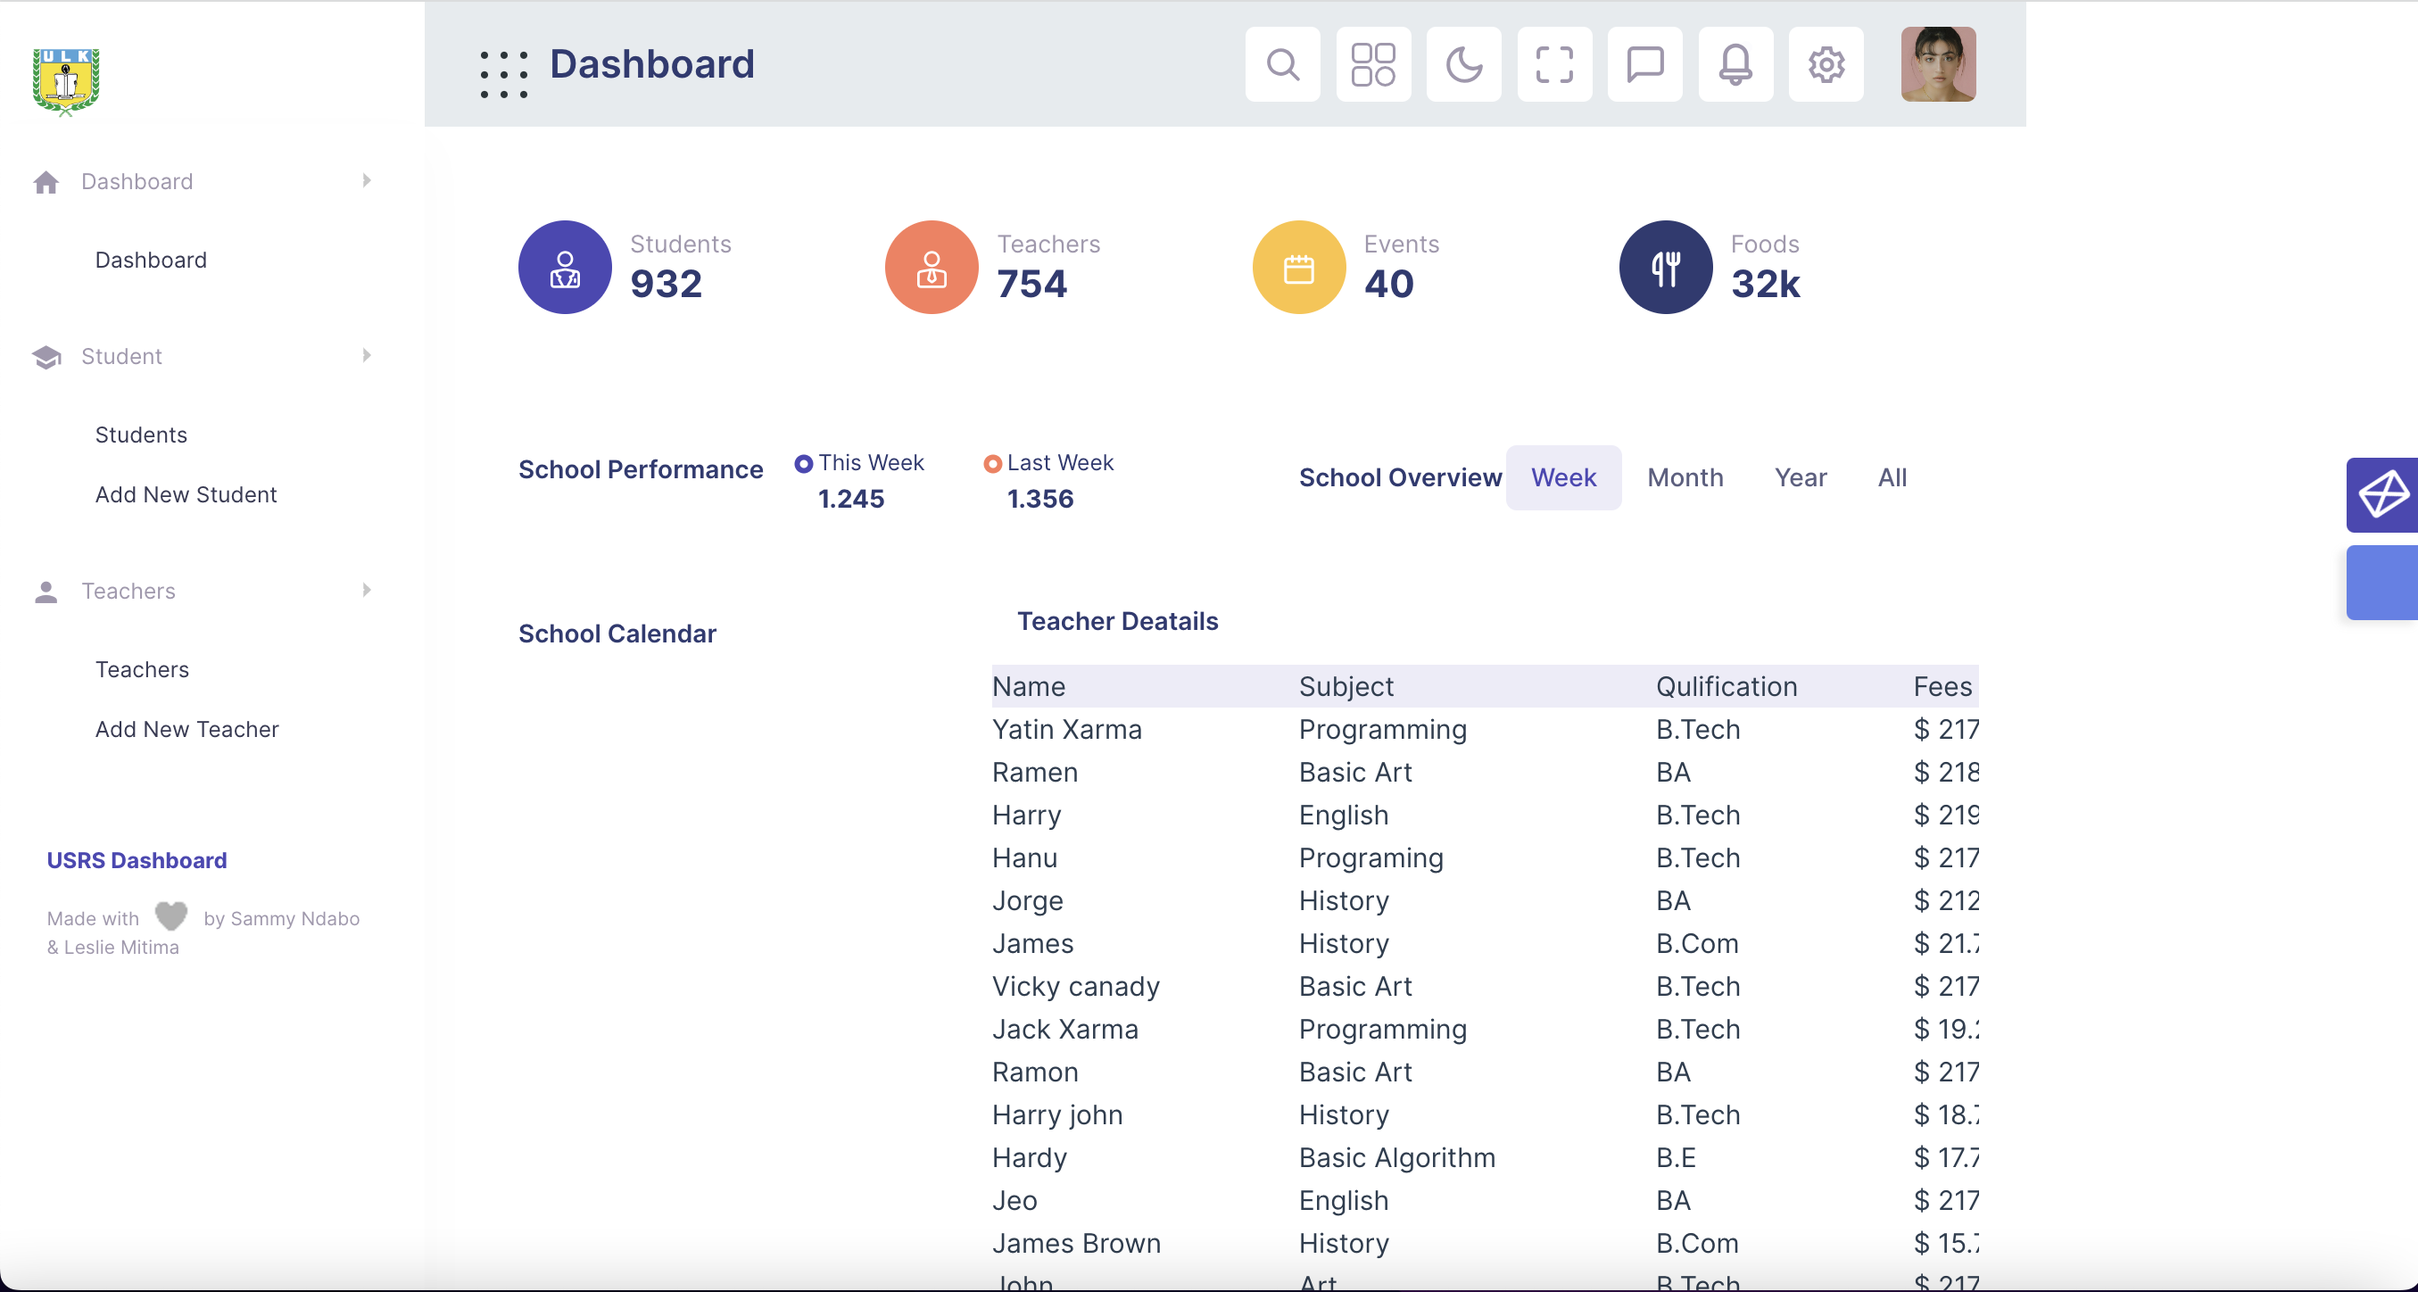
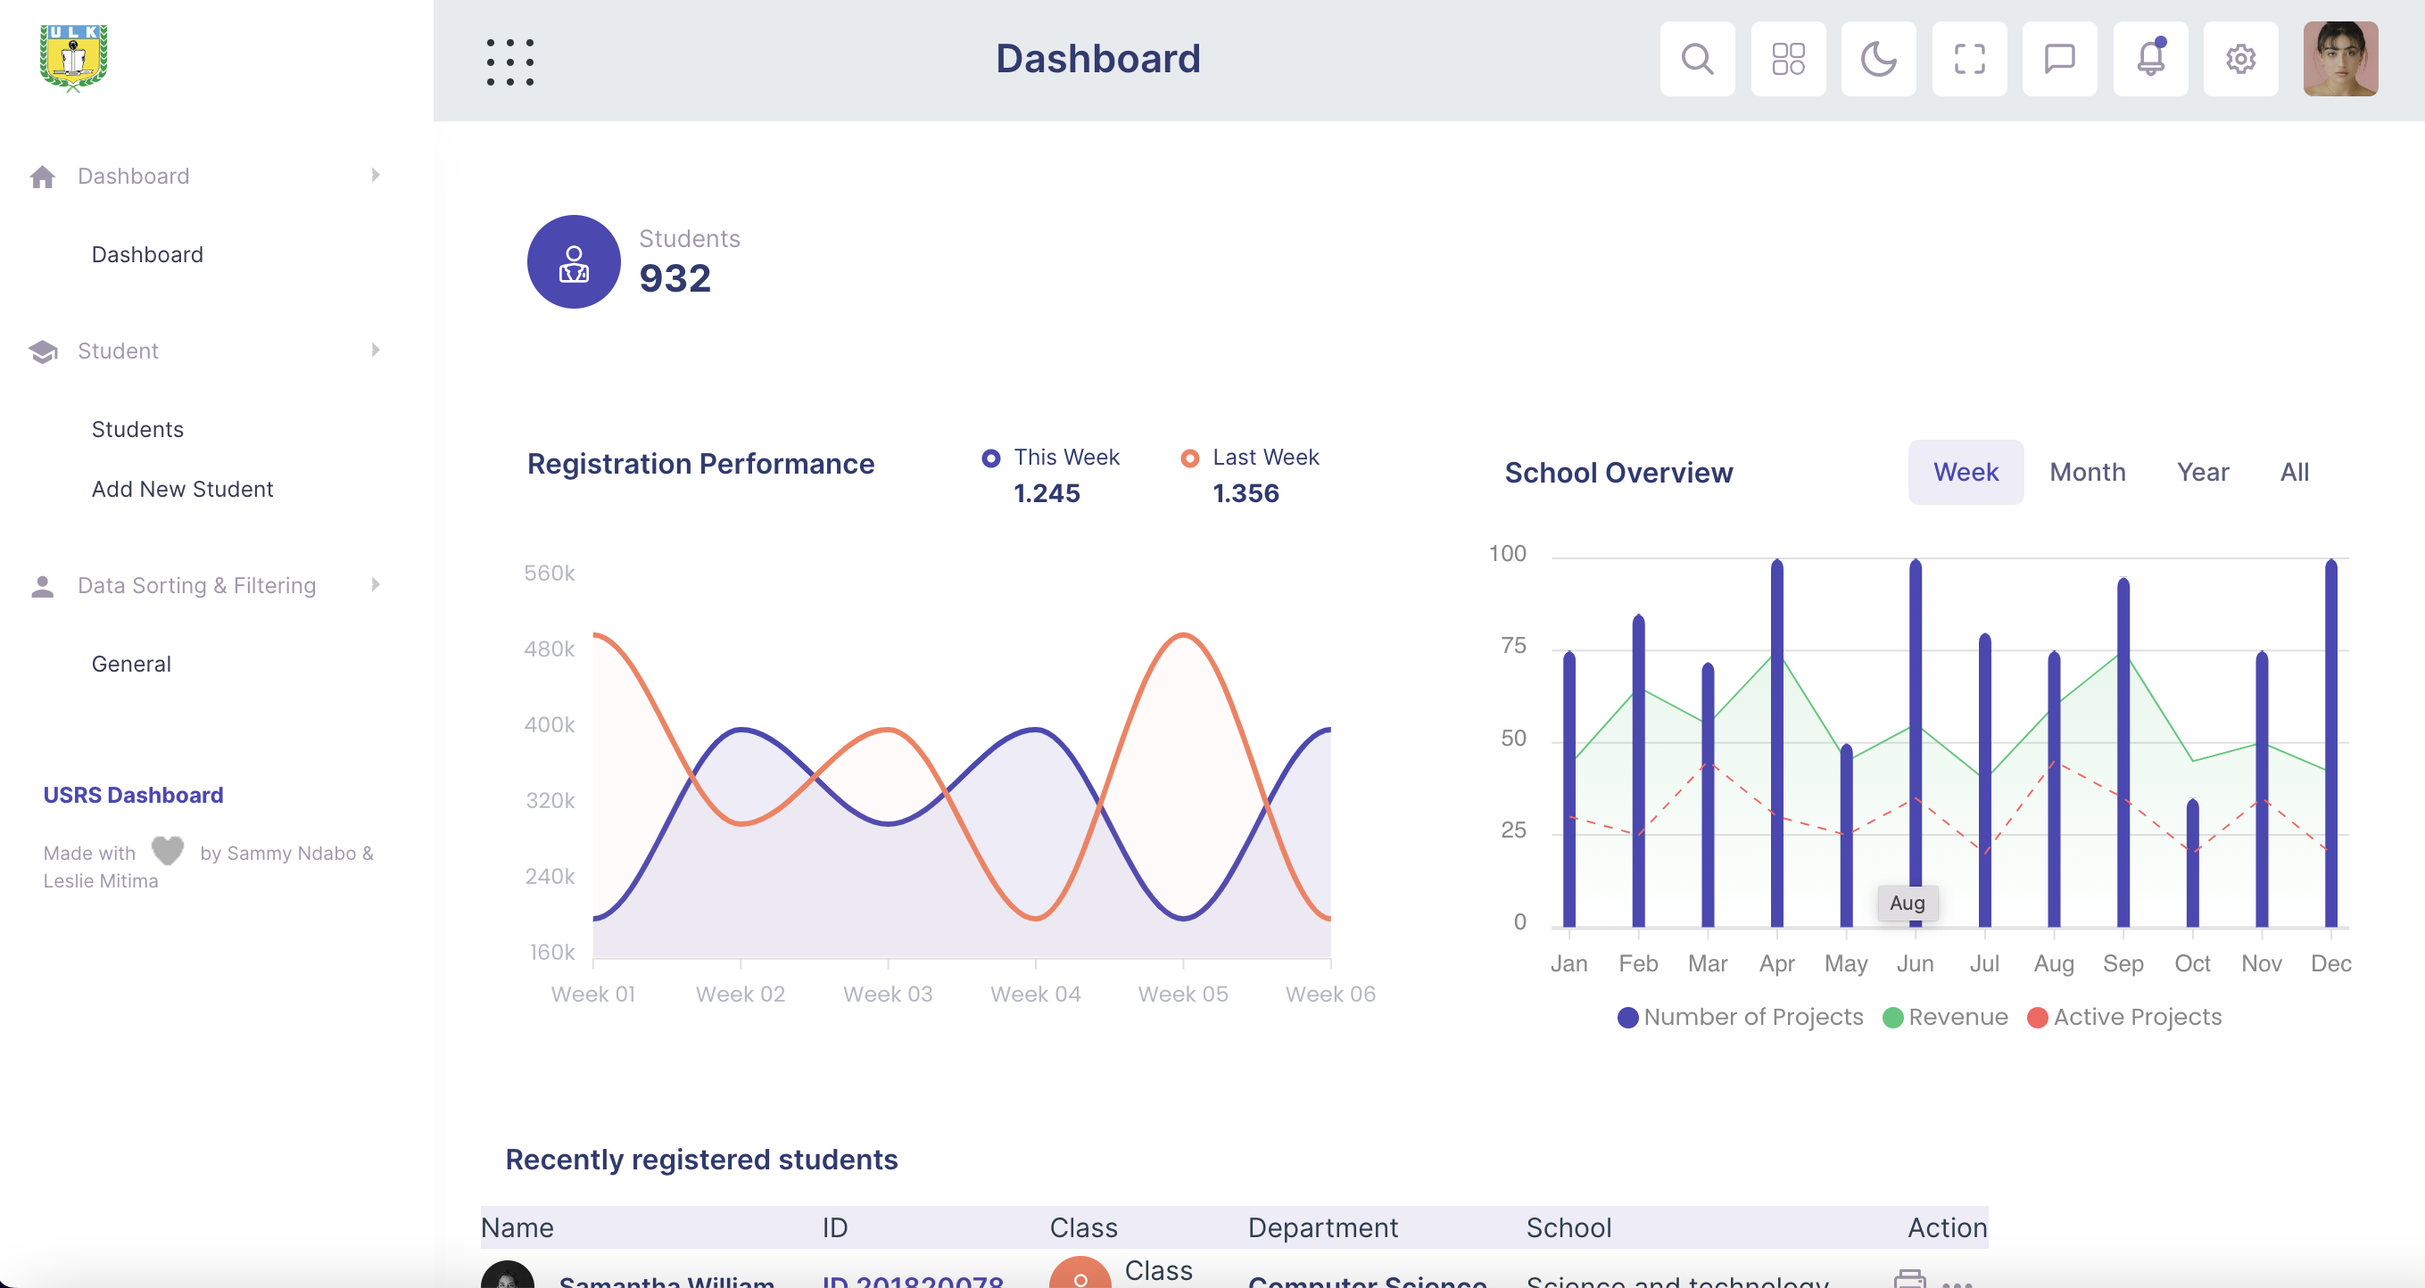
Dashboard ui updated

diff --git a/src/views/HomeView.vue b/src/views/HomeView.vue
@@ -146,45 +146,7 @@ export default {
     											</div>
     										</div>
     									</div>
-    									<div class="col-xl-3 col-6">
-    										<div class="content-box">
-    											<div class="teach-data icon-box icon-box-xl">
-    												<svg width="25" height="25" viewBox="0 0 30 38" fill="none" xmlns="http://www.w3.org/2000/svg">
-    													<path fill-rule="evenodd" clip-rule="evenodd" d="M0 34C0 36.0713 1.67875 37.75 3.75 37.75H26.25C28.3212 37.75 30 36.0713 30 34C30 31.0825 30 26.3125 30 23.5863C30 21.7738 28.7038 20.2213 26.9213 19.8975C24.2788 19.4163 19.7225 18.5875 17.145 18.12C15.7263 17.8612 14.2737 17.8612 12.855 18.12C10.2775 18.5875 5.72125 19.4163 3.07875 19.8975C1.29625 20.2213 0 21.7738 0 23.5863V34ZM17.885 20.795L19.7612 27.9288C20.0075 28.865 19.6775 29.8588 18.92 30.4638C18.28 30.9738 17.2713 31.7788 16.5713 32.3388C15.6525 33.0713 14.3475 33.0713 13.4287 32.3388C12.7287 31.7788 11.72 30.9738 11.08 30.4638C10.3225 29.8588 9.9925 28.865 10.2388 27.9288L12.115 20.795L3.52625 22.3562C2.9325 22.465 2.5 22.9825 2.5 23.5863V34C2.5 34.69 3.06 35.25 3.75 35.25C8.98 35.25 21.02 35.25 26.25 35.25C26.94 35.25 27.5 34.69 27.5 34C27.5 31.0825 27.5 26.3125 27.5 23.5863C27.5 22.9825 27.0675 22.465 26.4738 22.3562L17.885 20.795ZM15.2038 20.4288C15.0675 20.425 14.9325 20.425 14.7962 20.4288L12.6663 28.5312L14.9887 30.3837C14.995 30.39 15.005 30.39 15.0113 30.3837L17.3337 28.5312L15.2038 20.4288ZM15 0.25C10.5163 0.25 6.875 3.89125 6.875 8.375C6.875 12.8587 10.5163 16.5 15 16.5C19.4837 16.5 23.125 12.8587 23.125 8.375C23.125 3.89125 19.4837 0.25 15 0.25ZM15 2.75C18.105 2.75 20.625 5.27 20.625 8.375C20.625 11.48 18.105 14 15 14C11.895 14 9.375 11.48 9.375 8.375C9.375 5.27 11.895 2.75 15 2.75Z" fill="white"/>
-    												</svg>
-    											</div>
-    											<div class="chart-num">
-    												<p>Teachers</p>
-    												<h2 class="font-w700 mb-0">754</h2>
-    											</div>
-    										</div>
-    									</div>
-    									<div class="col-xl-3 col-6">
-    										<div class="content-box">
-    											<div class="event-data icon-box icon-box-xl">
-    												<svg width="20" height="20" viewBox="0 0 28 28" fill="none" xmlns="http://www.w3.org/2000/svg">
-    													<path d="M24 2.75H21.5V1.5C21.5 1.16848 21.3683 0.850537 21.1339 0.616117C20.8995 0.381696 20.5815 0.25 20.25 0.25C19.9185 0.25 19.6005 0.381696 19.3661 0.616117C19.1317 0.850537 19 1.16848 19 1.5V2.75H15.25V1.5C15.25 1.16848 15.1183 0.850537 14.8839 0.616117C14.6495 0.381696 14.3315 0.25 14 0.25C13.6685 0.25 13.3505 0.381696 13.1161 0.616117C12.8817 0.850537 12.75 1.16848 12.75 1.5V2.75H9V1.5C9 1.16848 8.8683 0.850537 8.63388 0.616117C8.39946 0.381696 8.08152 0.25 7.75 0.25C7.41848 0.25 7.10054 0.381696 6.86612 0.616117C6.6317 0.850537 6.5 1.16848 6.5 1.5V2.75H4C3.00544 2.75 2.05161 3.14509 1.34835 3.84835C0.645088 4.55161 0.25 5.50544 0.25 6.5V24C0.25 24.9946 0.645088 25.9484 1.34835 26.6517C2.05161 27.3549 3.00544 27.75 4 27.75H24C24.9946 27.75 25.9484 27.3549 26.6517 26.6517C27.3549 25.9484 27.75 24.9946 27.75 24V6.5C27.75 5.50544 27.3549 4.55161 26.6517 3.84835C25.9484 3.14509 24.9946 2.75 24 2.75ZM2.75 6.5C2.75 6.16848 2.8817 5.85054 3.11612 5.61612C3.35054 5.3817 3.66848 5.25 4 5.25H6.5V6.5C6.5 6.83152 6.6317 7.14946 6.86612 7.38388C7.10054 7.6183 7.41848 7.75 7.75 7.75C8.08152 7.75 8.39946 7.6183 8.63388 7.38388C8.8683 7.14946 9 6.83152 9 6.5V5.25H12.75V6.5C12.75 6.83152 12.8817 7.14946 13.1161 7.38388C13.3505 7.6183 13.6685 7.75 14 7.75C14.3315 7.75 14.6495 7.6183 14.8839 7.38388C15.1183 7.14946 15.25 6.83152 15.25 6.5V5.25H19V6.5C19 6.83152 19.1317 7.14946 19.3661 7.38388C19.6005 7.6183 19.9185 7.75 20.25 7.75C20.5815 7.75 20.8995 7.6183 21.1339 7.38388C21.3683 7.14946 21.5 6.83152 21.5 6.5V5.25H24C24.3315 5.25 24.6495 5.3817 24.8839 5.61612C25.1183 5.85054 25.25 6.16848 25.25 6.5V10.25H2.75V6.5ZM25.25 24C25.25 24.3315 25.1183 24.6495 24.8839 24.8839C24.6495 25.1183 24.3315 25.25 24 25.25H4C3.66848 25.25 3.35054 25.1183 3.11612 24.8839C2.8817 24.6495 2.75 24.3315 2.75 24V12.75H25.25V24Z" fill="white"/>
-    												</svg>	
-    											</div>
-    											<div class="chart-num">
-    												<p>Events</p>
-    												<h2 class="font-w700 mb-0">40</h2>
-    											</div>
-    										</div>
-    									</div>
-    									<div class="col-xl-3 col-6">
-    										<div class="content-box">
-    											<div class="food-data icon-box icon-box-xl bg-dark">
-    												<svg width="23" height="23" viewBox="0 0 28 34" fill="none" xmlns="http://www.w3.org/2000/svg">
-    													<path d="M8.25448 0.509167C5.96882 1.64226 4.0464 3.39315 2.70524 5.56327C1.36408 7.7334 0.657848 10.2359 0.666646 12.787V18.7167C0.667705 19.5871 1.01397 20.4216 1.62948 21.0372C2.245 21.6527 3.07951 21.9989 3.94998 22H7.33331V32C7.33331 32.442 7.50891 32.866 7.82147 33.1785C8.13403 33.4911 8.55795 33.6667 8.99998 33.6667C9.44201 33.6667 9.86593 33.4911 10.1785 33.1785C10.4911 32.866 10.6666 32.442 10.6666 32V2C10.6664 1.71598 10.5936 1.43673 10.4552 1.18872C10.3168 0.940703 10.1173 0.732152 9.87574 0.582831C9.63414 0.43351 9.3584 0.348368 9.07467 0.335477C8.79095 0.322585 8.50863 0.382371 8.25448 0.509167ZM7.33331 18.6833L3.99998 18.7167V12.787C3.99498 11.3525 4.28878 9.93273 4.86268 8.61805C5.43658 7.30336 6.27798 6.12261 7.33331 5.151V18.6833ZM24 2V8.66667C23.9994 9.10852 23.8236 9.53211 23.5112 9.84455C23.1988 10.157 22.7752 10.3328 22.3333 10.3333V2C22.3333 1.55797 22.1577 1.13405 21.8452 0.821489C21.5326 0.508929 21.1087 0.333334 20.6666 0.333334C20.2246 0.333334 19.8007 0.508929 19.4881 0.821489C19.1756 1.13405 19 1.55797 19 2V10.3333C18.5581 10.3328 18.1345 10.157 17.8221 9.84455C17.5097 9.53211 17.3339 9.10852 17.3333 8.66667V2C17.3333 1.55797 17.1577 1.13405 16.8452 0.821489C16.5326 0.508929 16.1087 0.333334 15.6666 0.333334C15.2246 0.333334 14.8007 0.508929 14.4881 0.821489C14.1756 1.13405 14 1.55797 14 2V8.66667C14.0014 9.9923 14.5287 11.2632 15.4661 12.2006C16.4034 13.138 17.6743 13.6652 19 13.6667V32C19 32.442 19.1756 32.866 19.4881 33.1785C19.8007 33.4911 20.2246 33.6667 20.6666 33.6667C21.1087 33.6667 21.5326 33.4911 21.8452 33.1785C22.1577 32.866 22.3333 32.442 22.3333 32V13.6667C23.6589 13.6652 24.9299 13.138 25.8672 12.2006C26.8046 11.2632 27.3319 9.9923 27.3333 8.66667V2C27.3333 1.55797 27.1577 1.13405 26.8452 0.821489C26.5326 0.508929 26.1087 0.333334 25.6666 0.333334C25.2246 0.333334 24.8007 0.508929 24.4881 0.821489C24.1756 1.13405 24 1.55797 24 2Z" fill="white"/>
-    												</svg>
-    											</div>
-    											<div class="chart-num">
-    												<p>Foods</p>
-    												<h2 class="font-w700 mb-0">32k</h2>
-    											</div>
-    										</div>
-    									</div>
+    									
     								</div>	
     							</div>
     						</div>
@@ -196,7 +158,7 @@ export default {
     							<div class="card-header pb-0 border-0 flex-wrap">
     								<div class="mb-2 mb-sm-0">
     									<div class="chart-title mb-3">
-    										<h2 class="heading">School Performance</h2>	
+    										<h2 class="heading">Registration Performance</h2>	
     									</div>
     								</div>
     								<div class="p-static">
@@ -254,167 +216,12 @@ export default {
     						</div>
     					</div>
     				</div>
-    				<div class="row">
-    					<div class="col-xl-4 wow fadeInUp" data-wow-delay="1.5s">
-    						<div class="card">
-    							<div class="card-header pb-0 border-0 flex-wrap">
-    								<div>
-    									<div class="mb-3">
-    										<h2 class="heading mb-0">School Calendar</h2>	
-    									</div>
-    								</div>
-    							</div>
-    							<div class="card-body text-center event-calender  py-0 px-1">
-    								<input type='text' class="form-control d-none" id='datetimepicker1'>
-    							</div>
-    						</div>
-    					</div>
-    					<!--column-->
-    					<div class="col-xl-8">
-    						<div class="card">
-    							<div class="card-header py-3 border-0 px-3">
-    								<h4 class="heading m-0">Teacher Deatails</h4>
-    							</div>
-    							<div class="card-body p-0">
-    								<div class="table-responsive basic-tbl">
-    									<table id="teacher-table" class="tech-data" style="min-width: 798px">
-    										<thead>
-    											<tr>
-    												<th>Name</th>
-    												<th>Subject</th>
-    												<th>Qulification</th>
-    												<th>Fees</th>
-    												<th class="text-end">Performance</th>
-    											</tr>
-    										</thead>
-    										<tbody>
-    											<tr>
-    												<td>Yatin Xarma</td>
-    												<td>Programming</td>
-    												<td>B.Tech</td>
-    												<td>$ 217.70</td>
-    												<td class="text-end"><span class="badge badge-sm light badge-danger">Bad</span></td>
-    											</tr>
-    											<tr>
-    												<td>Ramen</td>
-    												<td>Basic Art</td>
-    												<td>BA</td>
-    												<td>$ 218.70</td>
-    												<td class="text-end"><span class="badge badge-sm light badge-success">Good</span></td>
-    											</tr>
-    											<tr>
-    												<td>Harry</td>
-    												<td>English</td>
-    												<td>B.Tech</td>
-    												<td>$ 219.70</td>
-    												<td class="text-end"><span class="badge badge-sm light badge-success">Good</span></td>
-    											</tr>
-    											<tr>
-    												<td>Hanu</td>
-    												<td>Programing</td>
-    												<td>B.Tech</td>
-    												<td>$ 217.70</td>
-    												<td class="text-end"><span class="badge badge-sm light badge-success">Good</span></td>
-    											</tr>
-    											<tr>
-    												<td>Jorge</td>
-    												<td>History</td>
-    												<td>BA</td>
-    												<td>$ 212.70</td>
-    												<td class="text-end"><span class="badge badge-sm light badge-success">Good</span></td>
-    											</tr>
-    											<tr>
-    												<td>James</td>
-    												<td>History</td>
-    												<td>B.Com</td>
-    												<td>$ 21.70</td>
-    												<td class="text-end"><span class="badge badge-sm light badge-danger">Bad</span></td>
-    											</tr>
-    											<tr>
-    												<td>Vicky canady</td>
-    												<td>Basic Art</td>
-    												<td>B.Tech</td>
-    												<td>$ 217.70</td>
-    												<td class="text-end"><span class="badge badge-sm light badge-success">Good</span></td>
-    											</tr>
-    											<tr>
-    												<td>Jack Xarma</td>
-    												<td>Programming</td>
-    												<td>B.Tech</td>
-    												<td>$ 19.2.70</td>
-    												<td class="text-end"><span class="badge badge-sm light badge-success">Good</span></td>
-    											</tr>
-    											<tr>
-    												<td>Ramon</td>
-    												<td>Basic Art</td>
-    												<td>BA</td>
-    												<td>$ 217.70</td>
-    												<td class="text-end"><span class="badge badge-sm light badge-success">Good</span></td>
-    											</tr>
-    											<tr>
-    												<td>Harry john</td>
-    												<td>History</td>
-    												<td>B.Tech</td>
-    												<td>$ 18.70</td>
-    												<td class="text-end"><span class="badge badge-sm light badge-success">Good</span></td>
-    											</tr>
-    											<tr>
-    												<td>Hardy</td>
-    												<td>Basic Algorithm</td>
-    												<td>B.E</td>
-    												<td>$ 17.70</td>
-    												<td class="text-end"><span class="badge badge-sm light badge-success">Good</span></td>
-    											</tr>
-    											<tr>
-    												<td>Jeo</td>
-    												<td>English</td>
-    												<td>BA</td>
-    												<td>$ 217.70</td>
-    												<td class="text-end"><span class="badge badge-sm light badge-success">Good</span></td>
-    											</tr>
-    											<tr>
-    												<td>James Brown</td>
-    												<td>History</td>
-    												<td>B.Com</td>
-    												<td>$ 15.70</td>
-    												<td class="text-end"><span class="badge badge-sm light badge-danger">Bad</span></td>
-    											</tr>
-    											<tr>
-    												<td>John</td>
-    												<td>Art</td>
-    												<td>B.Tech</td>
-    												<td>$ 217.70</td>
-    												<td class="text-end"><span class="badge badge-sm light badge-success">Good</span></td>
-    											</tr>
-    											<tr>
-    												<td>Janny</td>
-    												<td>Basic Algorithm</td>
-    												<td>B.Tech</td>
-    												<td>$ 21.70</td>
-    												<td class="text-end"><span class="badge badge-sm light badge-success">Good</span></td>
-    											</tr>
-    											<tr>
-    												<td>Jorge clek</td>
-    												<td>English</td>
-    												<td>BA</td>
-    												<td>$ 22.70</td>
-    												<td class="text-end"><span class="badge badge-sm light badge-success">Good</span></td>
-    											</tr>
-											
-											
-    										</tbody>
-    									</table>
-    								</div>
-    							</div>
-    						</div>
-    					</div>
-    					<!--/column-->
-    				</div>
+    				
     				<!-- column-->
     				<div class="col-xl-12">
     					<div class="card">
     						<div class="card-header border-0 p-3">
-    							<h4 class="heading mb-0">Unpaid Student Intuition</h4>
+    							<h4 class="heading mb-0">Recently registered students</h4>
     						</div>
     						<div class="card-body p-0">
     							<div class="table-responsive basic-tbl">
@@ -424,8 +231,8 @@ export default {
     											<th>Name</th>
     											<th>ID</th>
     											<th>Class</th>
-    											<th>Fees</th>
-    											<th>Rank</th>
+    											<th>Department</th>
+    											<th>School</th>
     											<th>Action</th>
     										</tr>
     									</thead>
@@ -437,7 +244,7 @@ export default {
     													<h4>Samantha William</h4>
     												</div>
     											</td>
-    											<td><span class="text-primary font-w600">ID 123456789</span></td>
+    											<td><span class="text-primary font-w600">ID 201820078</span></td>
     											<td>
     												<div class="d-flex align-items-center">	
     													<div class="icon-box icon-box-sm bg-secondary">
@@ -447,12 +254,12 @@ export default {
     													</div>	
     													<div class="ms-2">
     														<span class="mb-0">Class</span>
-    														<h6 class="text-primary mb-0 font-w600">VII C</h6>
+    														<h6 class="text-primary mb-0 font-w600">Y3 CS/D</h6>
     													</div>
     												</div>
     											</td>
-    											<td><span class="doller font-w600"> $ 50,036</span></td>
-    											<td>First</td>
+    											<td><span class="doller font-w600"> Computer Science</span></td>
+    											<td>Science and technology</td>
     											<td>
     												<ul class="tbl-action">
     													<li>	

diff --git a/src/components/SideBarView.vue b/src/components/SideBarView.vue
@@ -52,16 +52,12 @@ export default {
 
     					<li><a class="has-arrow " href="javascript:void(0);" aria-expanded="false">
     						<i class="material-symbols-outlined">person</i>
-    						<span class="nav-text">Teachers</span>
+    						<span class="nav-text">Data Sorting & Filtering</span>
     					</a>
     					<ul aria-expanded="false">
     						<li>
-								<router-link to="/teachers">Teachers</router-link>
+								<router-link to="/teachers">General</router-link>
 							</li>
-    						<li>
-								<router-link to="/add-teacher">Add New Teacher</router-link>
-							</li>
-						
     					</ul>
     					</li>
     				</ul>
